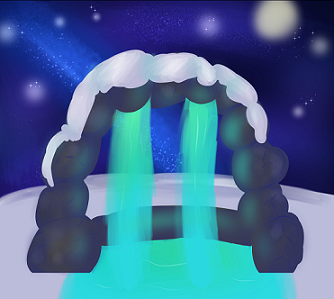
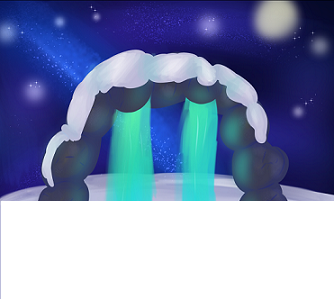
refonte
responsive

diff --git a/style.css b/style.css
@@ -1,49 +1,49 @@
 body {
-    background: url(fond\ cascade.png);
-    width: 1080px;
-    height: 720px;
-    background-size: 1500px 1000px;
+    background: url(fond\ cascade.png) fixed;
+    background-size: 100em 100em;
     margin: 0;
     padding: 0;
 }
-body{margin: 0; padding: 0;}
 #image{
     display: flex;
-    justify-content: space-between;
-    margin-left: 100px;
+    justify-content: space-around;
 }
 img{
-    width:400px;
+    width:405px;
     height: auto;
     text-align: center;
     margin: 0px;
-    margin-bottom: 0px;
-    margin-top: 0px;
-
+}
+#titre{
+    display: flex;
+    justify-content: center;
+    margin: 5px;
 }
 h1{
+    
+    
+    padding: 1px;
     color: pink;
-    border: 5px solid ;
-    text-align: center;
-    margin: 150px;
-    margin-top: 10px;
-    margin-bottom: 5px;
-    width: 100%;
+    border: 5px pink solid;
+    
 }
 ol{
+    background-color: blueviolet;
     display: flex;
-    color: rgb(255, 0, 221);
+    color: rgb(255, 255, 255);
     font-size: 30px;
     margin: 0px;
     margin-top: 0;
     justify-content: space-around;
+    list-style: none;
+    margin-bottom: 0;
 }
 
 p{
     color: pink;
-    font-size: 20px; 
-    text-align: center;
-    margin-left: 150px;
-    margin-bottom: 2px;
 }
-
+#paratexte{
+    display: flex;
+    justify-content: center;
+    margin: 5px;
+}

diff --git a/index.html b/index.html
@@ -8,8 +8,10 @@
         <link rel="stylesheet" href="style.css">
     </head>
     <body>
-        <div><h1>Bonne fête des grands mères</h1><br></div>
-        <div><p>Bonne fête Didi on espère que tu vas bien et on pense très fort à toi. <br> Cette page t’est entièrement dédiée. </p></div><br><br>
+        <header>
+            <div id="titre"><h1>Bonne fête des grands mères</h1></div>
+            <div id="paratexte"><p>Bonne fête Didi on espère que tu vas bien et on pense très fort à toi. <br> Cette page t’est entièrement dédiée. </p></div>
+        </header>
         <div id="image">
             <img src="ballon-removebg-preview.png" alt="">
             <img src="gr.gif" alt="">
